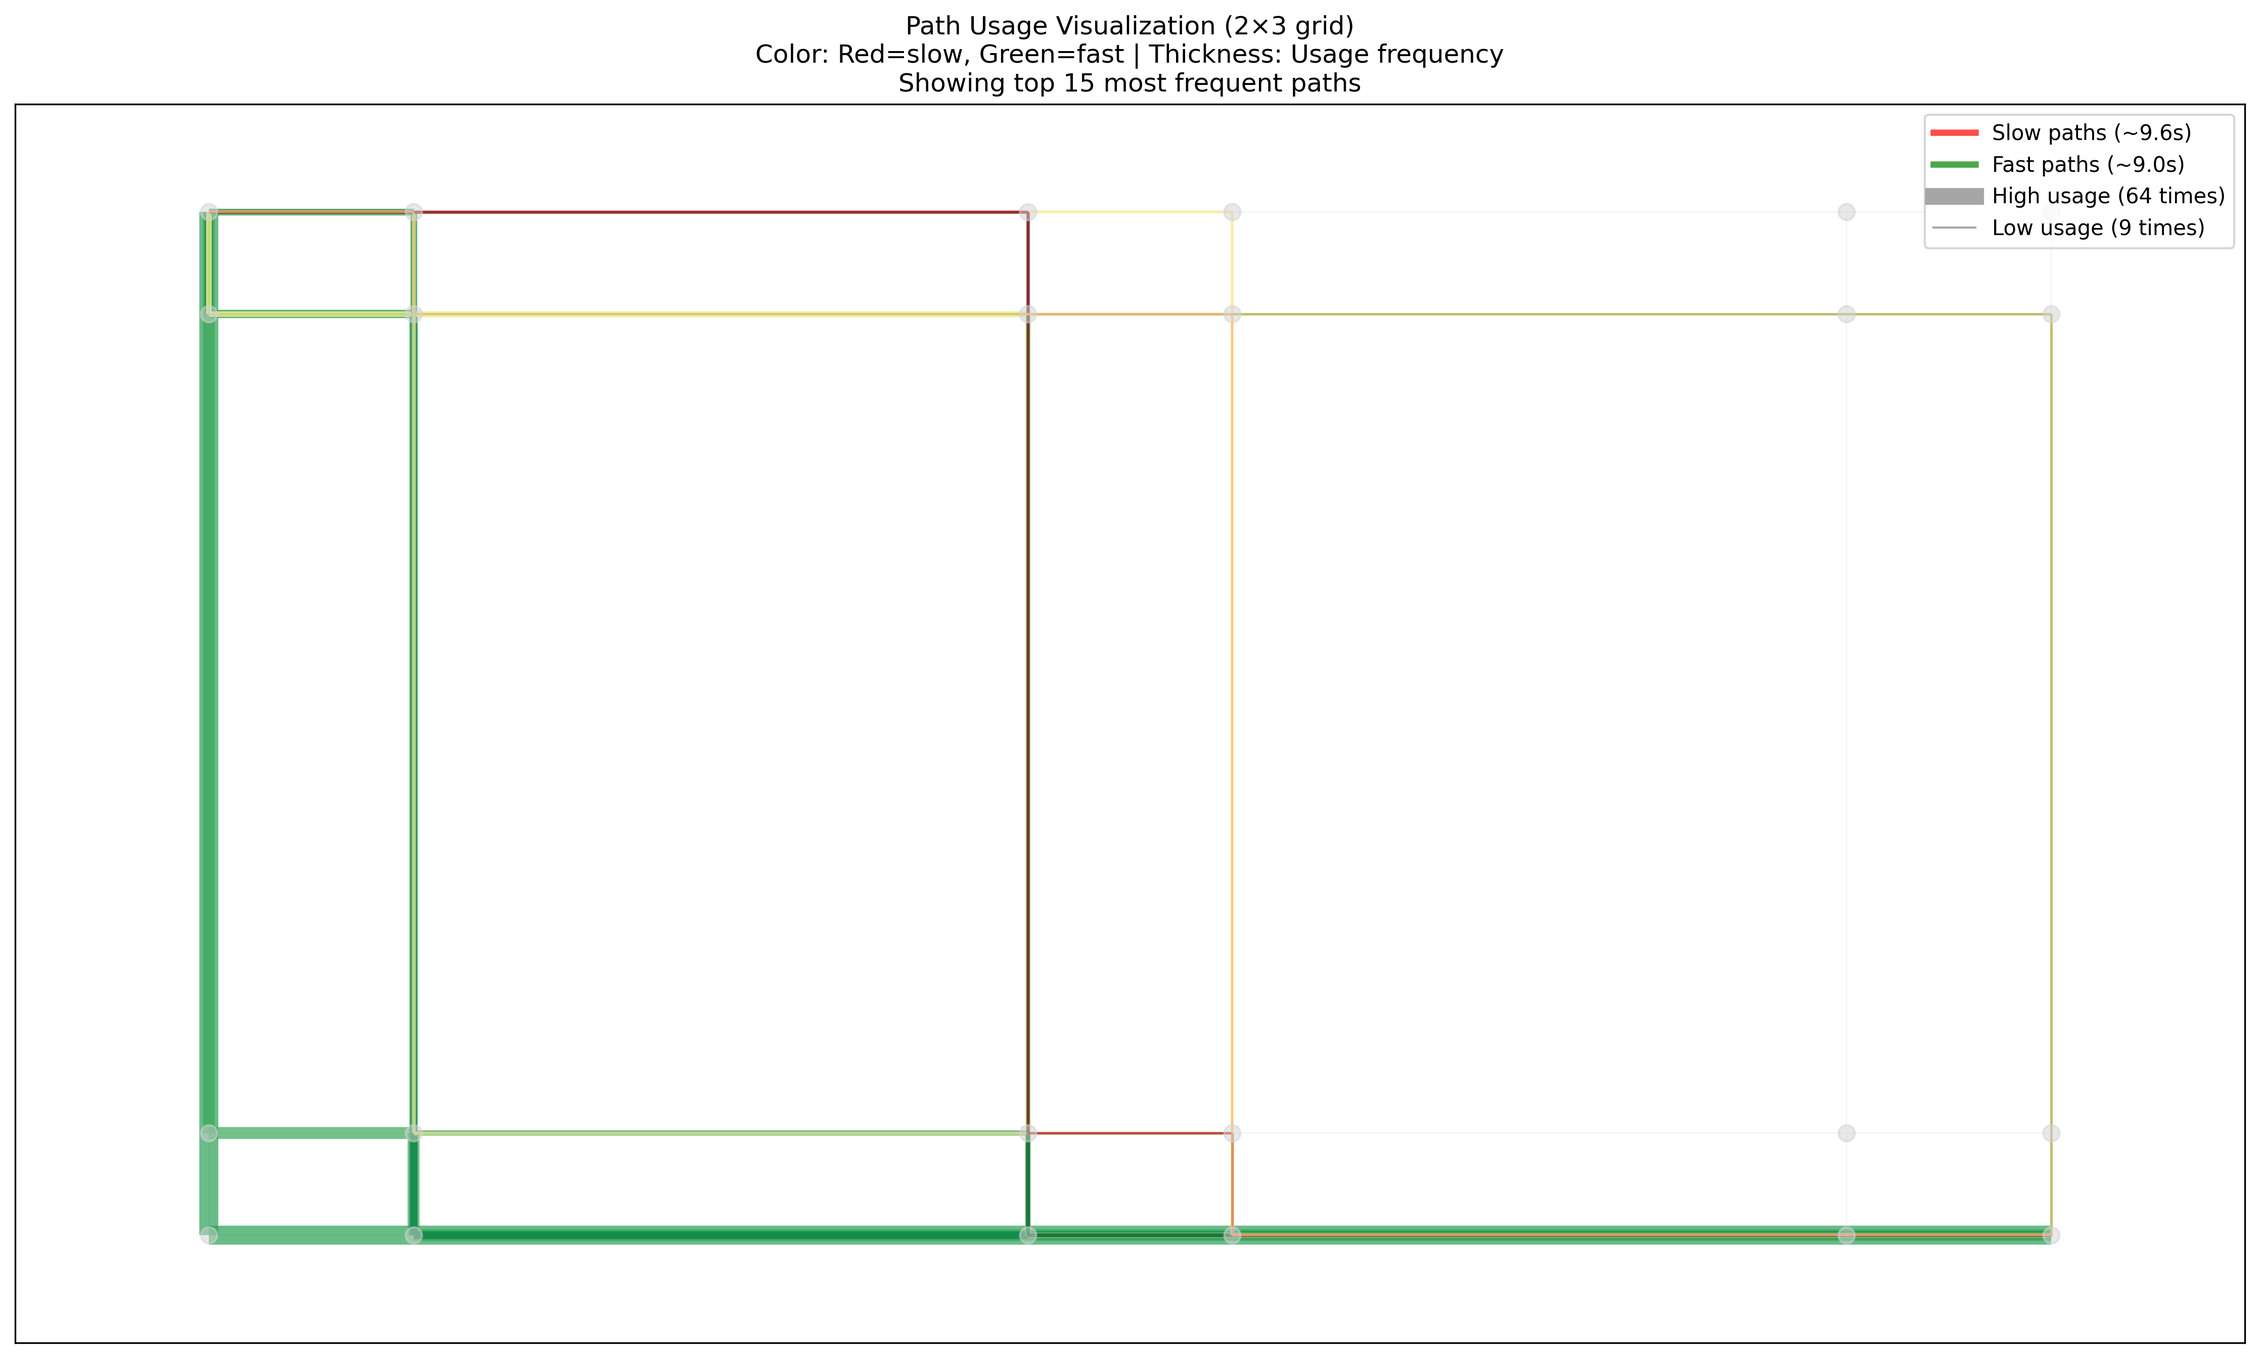
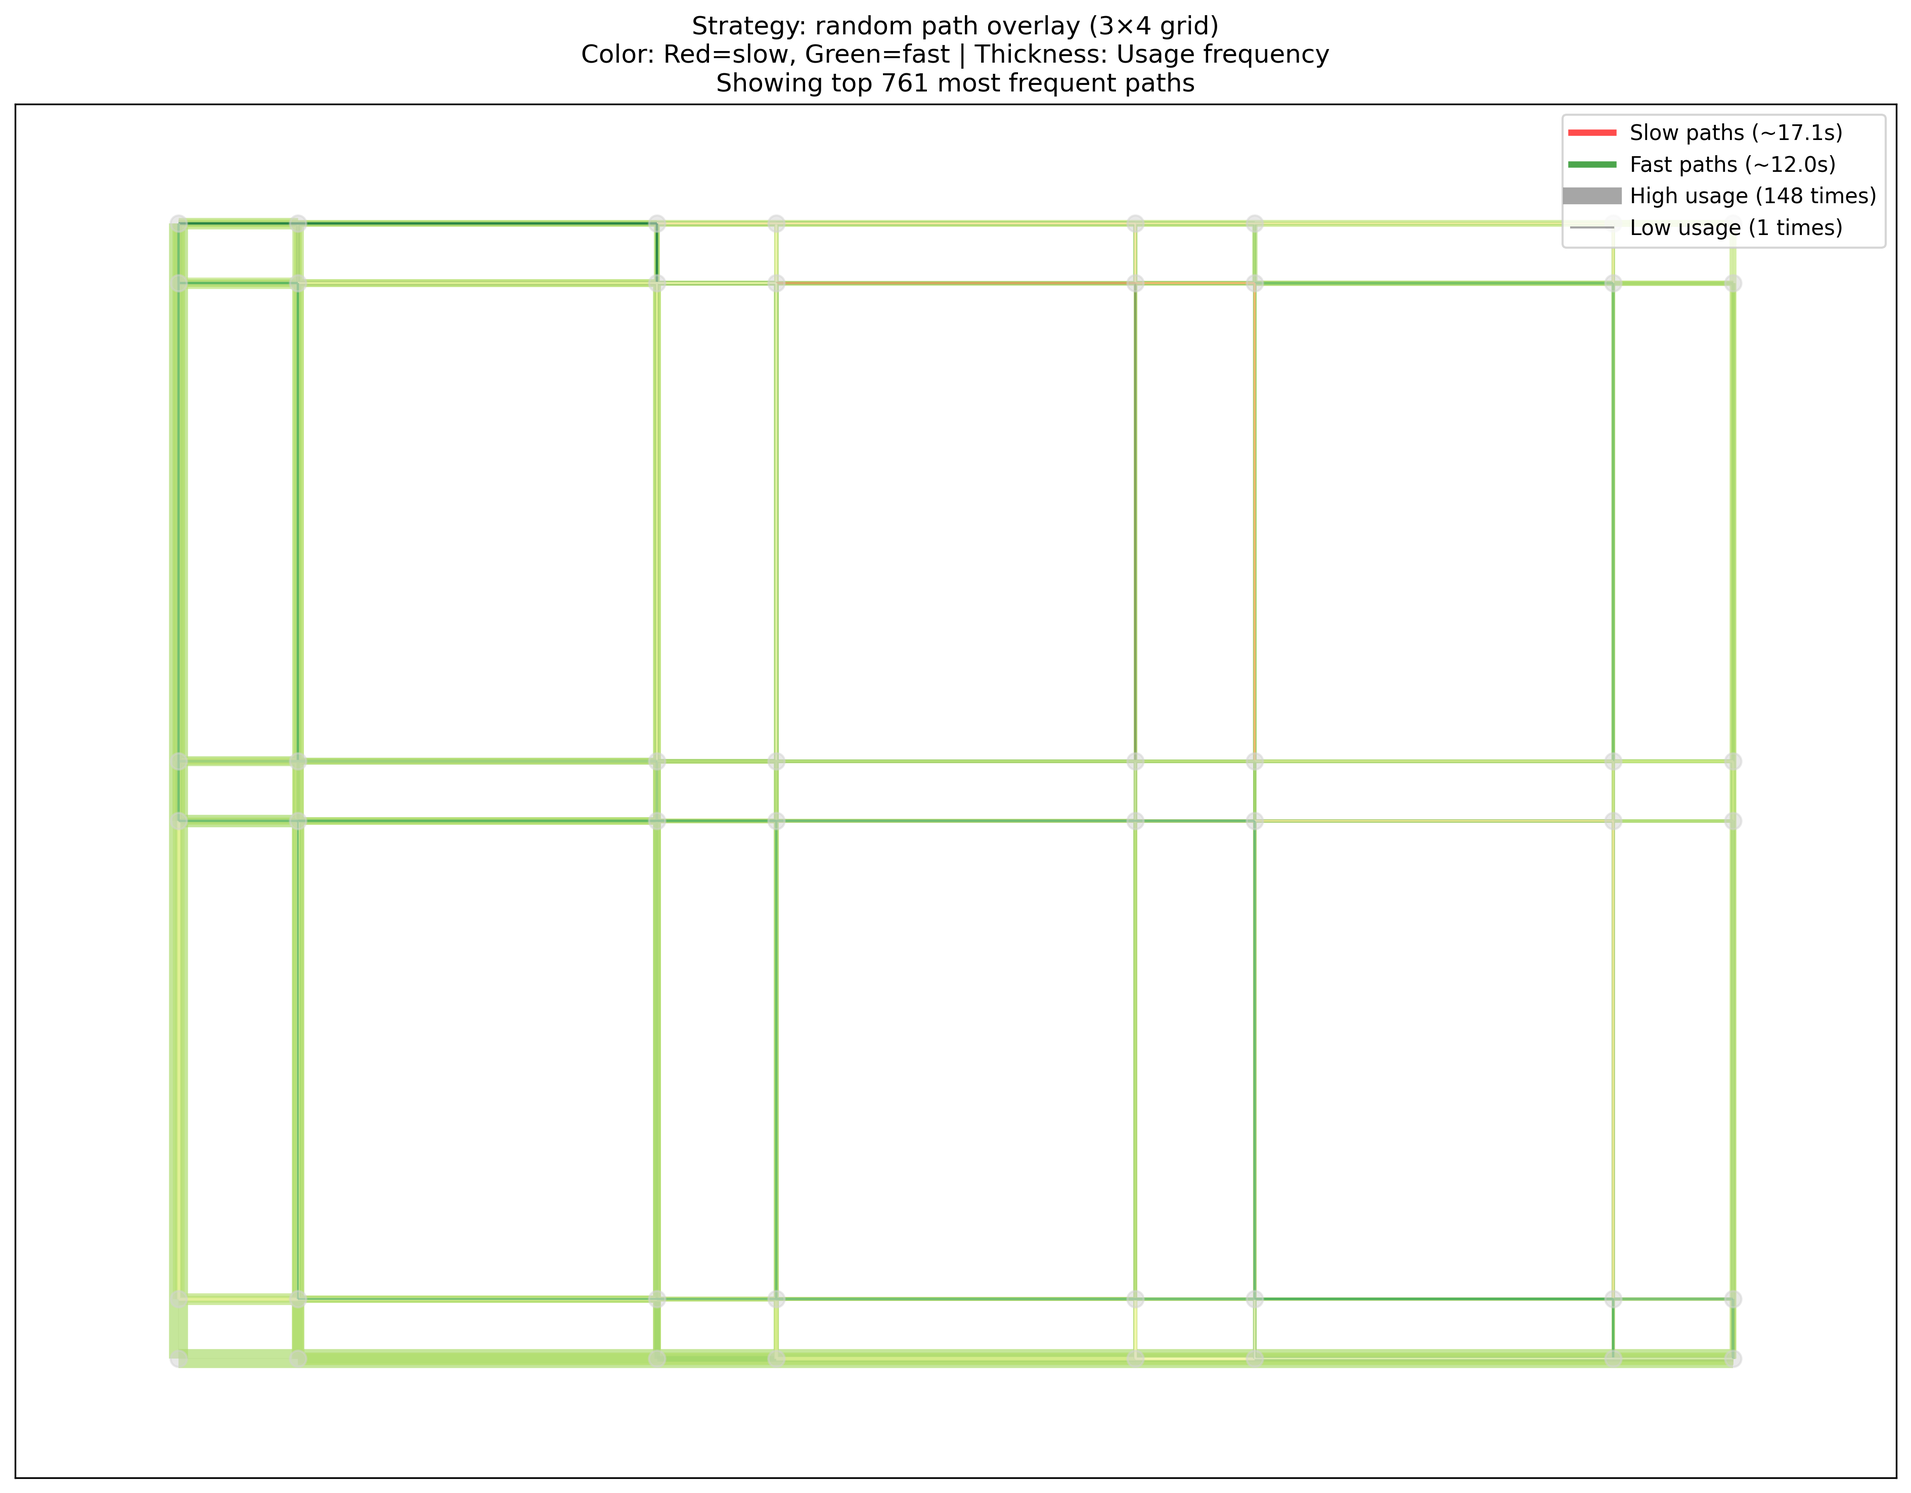
before fixing assymetry bug

Changed region(s): [[0.0, 0.0, 0.9992, 0.927], [0.0, 0.9888, 0.9992, 1.0], [0.5308, 0.4944, 0.687, 0.5562]]

diff --git a/utils/simulation.py b/utils/simulation.py
@@ -4,6 +4,8 @@ Simulation logic for street crossing strategies.
 import random
 import numpy as np
 
+from utils.strategies import Strategies
+
 
 def wait_time_to_green(current_t, offset):
     """Calculate wait time until next green light."""
@@ -61,7 +63,7 @@ def calculate_remaining_moves(current_node, end_node):
     return e_remaining, s_remaining
 
 
-def choose_next_node(G, current_node, strategy, signal_offsets, current_time, end_node=None):
+def choose_next_node(G, current_node, strategy: Strategies, signal_offsets, current_time, end_node=None):
     """Choose next node based on strategy - only east/south moves allowed"""
     valid_moves = get_valid_moves(G, current_node)
     
@@ -96,12 +98,12 @@ def choose_next_node(G, current_node, strategy, signal_offsets, current_time, en
         })
     
     # Apply strategy
-    if strategy == "random":
+    if strategy == Strategies.random:
         chosen = random.choice(move_data)
-    elif strategy == "oracular":
+    elif strategy == Strategies.oracular:
         # Perfect information strategy - choose minimum wait time
         chosen = min(move_data, key=lambda x: x['wait_time'])
-    elif strategy == "signal_observer":
+    elif strategy == Strategies.signal_observer:
         # Realistic strategy: observe current signal states
         green_moves = [m for m in move_data if m['is_green']]
         
@@ -129,11 +131,11 @@ def choose_next_node(G, current_node, strategy, signal_offsets, current_time, en
         else:
             # No green signals - wait for first one to turn green
             chosen = min(move_data, key=lambda x: x['wait_time'])
-    elif strategy == "edge":
+    elif strategy == Strategies.edge:
         # Prefer eastward moves
         east_moves = [m for m in move_data if m['direction'] == 'E']
         chosen = random.choice(east_moves) if east_moves else random.choice(move_data)
-    elif strategy == "alternate":
+    elif strategy == Strategies.alternate:
         # For now, just random choice among available moves
         # TODO: track previous direction for true alternation
         chosen = random.choice(move_data)
@@ -143,7 +145,7 @@ def choose_next_node(G, current_node, strategy, signal_offsets, current_time, en
     return chosen['neighbor'], chosen['direction']
 
 
-def simulate_graph_run(G, start_node, end_node, strategy):
+def simulate_graph_run(G, start_node, end_node, strategy: Strategies):
     """Simulate a pedestrian journey through the actual graph - only east/south moves"""
     current_node = start_node
     current_time = 0.0
@@ -186,7 +188,7 @@ def simulate_graph_run(G, start_node, end_node, strategy):
     }
 
 
-def simulate_graph_many(G, start_node, end_node, strategy, N=100):
+def simulate_graph_many(G, start_node, end_node, strategy: Strategies, N=100):
     """Run many graph simulations"""
     results = []
     for _ in range(N):
@@ -224,17 +226,27 @@ def path_signature(edge_list):
     return tuple(edge_list)
 
 
-def analyze_random_strategy_paths(G, start_node, end_node, N=1000):
-    """Analyze path frequency and performance for random strategy"""
+def analyze_specific_strategy_paths(G, start_node, end_node, strategy: Strategies, N=None):
+    """Analyze path frequency and performance for specific strategy
+    Args:
+        G: NetworkX graph
+        start_node: Tuple of (row, column, dx, dy) representing start node
+        end_node: Tuple of (row, column, dx, dy) representing end node
+        strategy: Strategies enum
+        N: Number of simulations to run
+    Returns:
+        path_lookup: Dictionary mapping path signature to path info
+        all_paths: List of all possible paths
+    """
     print("Enumerating all possible paths...")
     all_paths = enumerate_all_paths(G, start_node, end_node)
     print(f"Found {len(all_paths)} possible paths")
     
     # Create mapping from signature to path info
-    path_lookup = {}
+    specific_path_data = {}
     for i, path in enumerate(all_paths):
         sig = path_signature(path['edges'])
-        path_lookup[sig] = {
+        specific_path_data[sig] = {
             'index': i,
             'nodes': path['nodes'],
             'edges': path['edges'],
@@ -243,18 +255,23 @@ def analyze_random_strategy_paths(G, start_node, end_node, N=1000):
             'frequency': 0
         }
     
-    print(f"Running {N} random strategy simulations...")
+    if N is None:
+        raise ValueError("N must be provided")
+    
+    print(f"Running {N} {strategy.name} strategy simulations...")
     # Run simulations and track path usage
     for _ in range(N):
-        result = simulate_graph_run(G, start_node, end_node, 'random')
+        result = simulate_graph_run(G, start_node, end_node, strategy)
         if result['success']:
             sig = path_signature(result['edge_signatures'])
-            if sig in path_lookup:
-                path_lookup[sig]['times'].append(result['time'])
-                path_lookup[sig]['frequency'] += 1
+            if sig in specific_path_data:
+                specific_path_data[sig]['times'].append(result['time'])
+                specific_path_data[sig]['frequency'] += 1
+        else:
+            print(f"Path {result['edge_signatures']} failed to reach end node")
     
     # Calculate statistics
-    for sig, path_info in path_lookup.items():
+    for sig, path_info in specific_path_data.items():
         if path_info['times']:
             path_info['mean_time'] = np.mean(path_info['times'])
             path_info['std_time'] = np.std(path_info['times'])
@@ -262,72 +279,7 @@ def analyze_random_strategy_paths(G, start_node, end_node, N=1000):
             path_info['mean_time'] = float('inf')
             path_info['std_time'] = 0
     
-    return path_lookup, all_paths
+    return specific_path_data, all_paths
 
 
-# Legacy simulation functions (simplified grid-based)
-def choose_direction(strategy, e_left, s_left, w_e, w_s, prev_dir, step_idx):
-    """Legacy function for simple grid simulation."""
-    if e_left == 0:
-        return "S"
-    if s_left == 0:
-        return "E"
-    if strategy == "oracular":
-        if w_e < w_s - 1e-9:
-            return "E"
-        if w_s < w_e - 1e-9:
-            return "S"
-        return "E" if e_left > s_left else "S"
-    if strategy == "signal_observer":
-        # In legacy sim, approximate signal_observer as checking if signals are green (wait_time == 0)
-        green_e = (w_e == 0)
-        green_s = (w_s == 0)
-        
-        if green_e and not green_s:
-            return "E"
-        elif green_s and not green_e:
-            return "S"
-        elif green_e and green_s:
-            # Both green - use balancing heuristic
-            return "E" if e_left > s_left else "S"
-        else:
-            # Neither green - wait for first to turn green (like oracular)
-            if w_e < w_s - 1e-9:
-                return "E"
-            elif w_s < w_e - 1e-9:
-                return "S"
-            else:
-                return "E" if e_left > s_left else "S"
-    if strategy == "random":
-        return random.choice(["E", "S"])
-    if strategy == "edge":
-        return "E"
-    if strategy == "alternate":
-        if prev_dir is None:
-            return "E"
-        if prev_dir == "E" and s_left > 0:
-            return "S"
-        if prev_dir == "S" and e_left > 0:
-            return "E"
-        return "E" if e_left > 0 else "S"
-    raise ValueError
-
-
-def simulate_run(n, m, strategy):
-    """Legacy simple simulation function."""
-    t, e_left, s_left, prev_dir, step_idx = 0.0, n, m, None, 0
-    while e_left + s_left:
-        offset_e, offset_s = random.random()*2, random.random()*2
-        w_e, w_s = wait_time_to_green(t, offset_e), wait_time_to_green(t, offset_s)
-        d = choose_direction(strategy, e_left, s_left, w_e, w_s, prev_dir, step_idx)
-        wait = w_e if d=="E" else w_s
-        t += wait + 1
-        if d=="E": e_left -= 1
-        else: s_left -= 1
-        prev_dir, step_idx = d, step_idx + 1
-    return t
-
-
-def simulate_many(n, m, strategy, N=5000):
-    """Legacy function to run many simple simulations."""
-    return [simulate_run(n, m, strategy) for _ in range(N)] 
+ 

diff --git a/main.py b/main.py
@@ -5,18 +5,15 @@ from enum import Enum
 import numpy as np
 from utils.graph_utils import build_city_graph, plot_city_graph, visualize_paths_on_graph
 from utils.simulation import (
-    simulate_many, simulate_graph_many, analyze_random_strategy_paths
+    simulate_graph_many, analyze_specific_strategy_paths
 )
-from utils.plotting import plot_strategy_comparison_swarm, print_detailed_statistics, print_strategy_comparison
-
-# Strategies is an Enum
-
-Strategies = Enum('Strategies', ['random', 'oracular', 'signal_observer', 'edge', 'alternate'])
+from utils.plotting import print_detailed_statistics, print_strategy_comparison, plot_strategy_comparison_swarm
+from utils.strategies import Strategies
 
 def main():
     """Run the complete street crossing simulation analysis."""
     # Use smaller grid for manageable path enumeration
-    n, m, Nsim = 2, 3, 500  # Smaller for path analysis
+    n, m, Nsim = 3, 4, 5000  # Smaller for path analysis
     
     s_lengths = {'vertical': 0.5, 'horizontal': 1.0}
     b_lengths = {'vertical': 4.0, 'horizontal': 3.0}
@@ -42,39 +39,35 @@ def main():
     print("PATH FREQUENCY ANALYSIS")
     print("=" * 50)
     
-    path_lookup, all_paths = analyze_random_strategy_paths(G, start_node, end_node, Nsim)
+    specific_path_data_random, all_paths_analyzed_random = analyze_specific_strategy_paths(G, start_node, end_node, Strategies.random, Nsim)
     
     # 3. Create path overlay visualization
     print("\nGenerating path overlay visualization...")
-    visualize_paths_on_graph(G, pos, path_lookup, n, m, s_lengths, b_lengths, max_paths_to_show=15)
+    visualize_paths_on_graph(G, pos, specific_path_data_random, n, m, s_lengths, b_lengths, max_paths_to_show=1500, title=f"Strategy: {Strategies.random.name} path overlay")
     
     # 4. Print detailed statistics
-    print_detailed_statistics(path_lookup, all_paths)
+    print_detailed_statistics(specific_path_data_random, all_paths_analyzed_random)
     
-    # 5. Quick comparison with other strategies
+    # 5. Strategy comparison with swarm plot
     strategies = [Strategies.random, Strategies.oracular, Strategies.signal_observer, Strategies.edge]
     strategy_results = {}
     
     for strategy in strategies:
-        results = simulate_graph_many(G, start_node, end_node, strategy.name, min(Nsim, 200))
+        results = simulate_graph_many(G, start_node, end_node, strategy, min(Nsim, 200))
         if results:
             times = [r['time'] for r in results]
             strategy_results[strategy.name] = {
                 'mean': np.mean(times),
                 'std': np.std(times),
-                'count': len(results)
+                'count': len(results),
+                'times': times  # Include raw times for swarm plot
             }
     
     print_strategy_comparison(strategy_results)
     
-    # 6. Create swarm plot comparison (using legacy simulation for demonstration)
-    print(f"\n" + "=" * 50)
-    print("STRATEGY SWARM PLOT (Legacy Simulation)")
-    print("=" * 50)
-    
-    legacy_strategies = [Strategies.oracular, Strategies.signal_observer, Strategies.random, Strategies.alternate, Strategies.edge]
-    legacy_results = {s.name: simulate_many(n, m, s.name, Nsim) for s in legacy_strategies}
-    plot_strategy_comparison_swarm(legacy_results, n, m, Nsim)
+    # Generate swarm plot for strategy comparison
+    print(f"\nGenerating strategy comparison swarm plot...")
+    plot_strategy_comparison_swarm(strategy_results, n, m, title="Strategy Performance Comparison")
     
     print("\n" + "=" * 70)
     print("Analysis complete! Check generated PNG files for visualizations.")

diff --git a/utils/plotting.py b/utils/plotting.py
@@ -7,30 +7,44 @@ import pandas as pd
 import numpy as np
 
 
-def plot_strategy_comparison_swarm(results, n, m, Nsim, sample_size=200):
-    """Create swarm plot comparing strategies with sampled data for performance."""
+def plot_strategy_comparison_swarm(strategy_results, n, m, title="Strategy Performance Comparison"):
+    """Create swarm plot comparing strategy performance."""
+    if not strategy_results:
+        print("No strategy results to plot")
+        return
+    
     fig, ax = plt.subplots(figsize=(10, 6))
     
-    # Prepare data for seaborn - sample from each strategy for faster plotting
+    # Prepare data for seaborn
     plot_data = []
+    sample_size = 200  # Sample size per strategy for faster plotting
     
-    for strategy, times in results.items():
-        # Sample randomly from each strategy
-        sampled_times = np.random.choice(times, size=min(sample_size, len(times)), replace=False)
-        for time in sampled_times:
-            plot_data.append({'Strategy': strategy, 'Travel Time': time})
+    for strategy, stats in strategy_results.items():
+        # Generate sample data points from normal distribution based on mean/std
+        if 'times' in stats:
+            # Use actual time data if available
+            times = stats['times']
+            sampled_times = np.random.choice(times, size=min(sample_size, len(times)), replace=False)
+        else:
+            # Generate from normal distribution using mean/std
+            sampled_times = np.random.normal(stats['mean'], stats['std'], sample_size)
+        
+        for time_val in sampled_times:
+            plot_data.append({'Strategy': strategy, 'Travel Time': time_val})
+    
+    if not plot_data:
+        print("No plot data generated")
+        return
+        
     df = pd.DataFrame(plot_data)
-
-    print('plotting swarmplot of df', df.shape)
     
     # Create swarm plot
     sns.swarmplot(data=df, x='Strategy', y='Travel Time', ax=ax, size=3)
     
-    # Add mean and std lines
-    for i, strategy in enumerate(results.keys()):
-        data = results[strategy]
-        mean_val = np.mean(data)
-        std_val = np.std(data)
+    # Add mean lines and statistics
+    for i, (strategy, stats) in enumerate(strategy_results.items()):
+        mean_val = stats['mean']
+        std_val = stats['std']
         
         # Plot mean line
         ax.hlines(mean_val, i-0.4, i+0.4, colors='red', linewidth=2, alpha=0.8)
@@ -41,11 +55,11 @@ def plot_strategy_comparison_swarm(results, n, m, Nsim, sample_size=200):
                 bbox=dict(boxstyle='round,pad=0.3', facecolor='white', alpha=0.8))
     
     ax.set_ylabel("Travel time (s)")
-    ax.set_title(f"Travel time distribution on {n}×{m} grid ({Nsim} runs per strategy)")
+    ax.set_title(f"{title} ({n}×{m} grid)")
     ax.grid(True, alpha=0.3)
     
     plt.tight_layout()
-    plt.savefig("travel_time_swarmplot.png", dpi=300)
+    plt.savefig("strategy_comparison_swarmplot.png", dpi=300)
     plt.show()
 
 

diff --git a/utils/graph_utils.py b/utils/graph_utils.py
@@ -134,7 +134,7 @@ def plot_city_graph(n, m, s_lengths, b_lengths):
     plt.show()
 
 
-def visualize_paths_on_graph(G, pos, path_lookup, n, m, s_lengths, b_lengths, max_paths_to_show=20):
+def visualize_paths_on_graph(G, pos, path_lookup, n, m, s_lengths, b_lengths, max_paths_to_show=None, title=None):
     """Visualize paths overlaid on the city graph with color=time, thickness=frequency"""
     
     fig, ax = plt.subplots(figsize=(15, 10))
@@ -148,7 +148,10 @@ def visualize_paths_on_graph(G, pos, path_lookup, n, m, s_lengths, b_lengths, ma
     used_paths.sort(key=lambda x: x[1]['frequency'], reverse=True)
     
     # Limit to top paths for clarity
-    paths_to_show = used_paths[:max_paths_to_show]
+    if max_paths_to_show is not None:
+        paths_to_show = used_paths[:max_paths_to_show]
+    else:
+        paths_to_show = used_paths
     
     if not paths_to_show:
         print("No paths to visualize")
@@ -193,7 +196,7 @@ def visualize_paths_on_graph(G, pos, path_lookup, n, m, s_lengths, b_lengths, ma
                              edge_color=[color], width=thickness, alpha=0.7, ax=ax)
     
     ax.set_aspect('equal')
-    ax.set_title(f"Path Usage Visualization ({n}×{m} grid)\n" +
+    ax.set_title(f"{title} ({n}×{m} grid)\n" +
                 f"Color: Red=slow, Green=fast | Thickness: Usage frequency\n" +
                 f"Showing top {len(paths_to_show)} most frequent paths")
     

diff --git a/utils/strategies.py b/utils/strategies.py
@@ -1,0 +1,3 @@
+from enum import Enum
+
+Strategies = Enum('Strategies', ['random', 'oracular', 'signal_observer', 'edge', 'alternate'])
